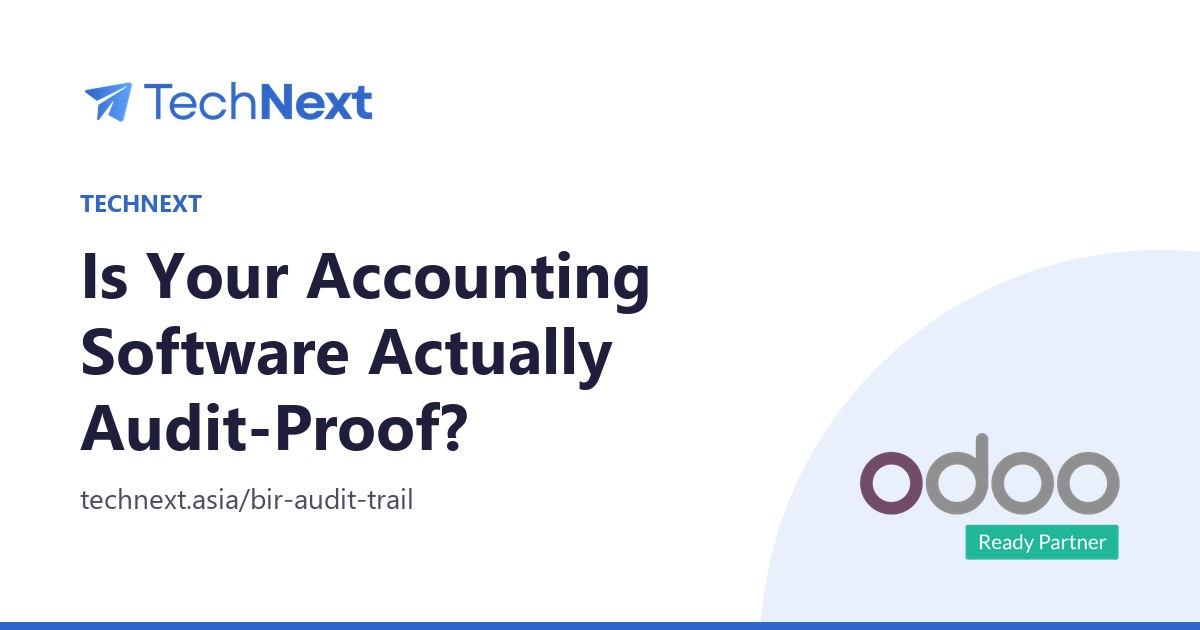
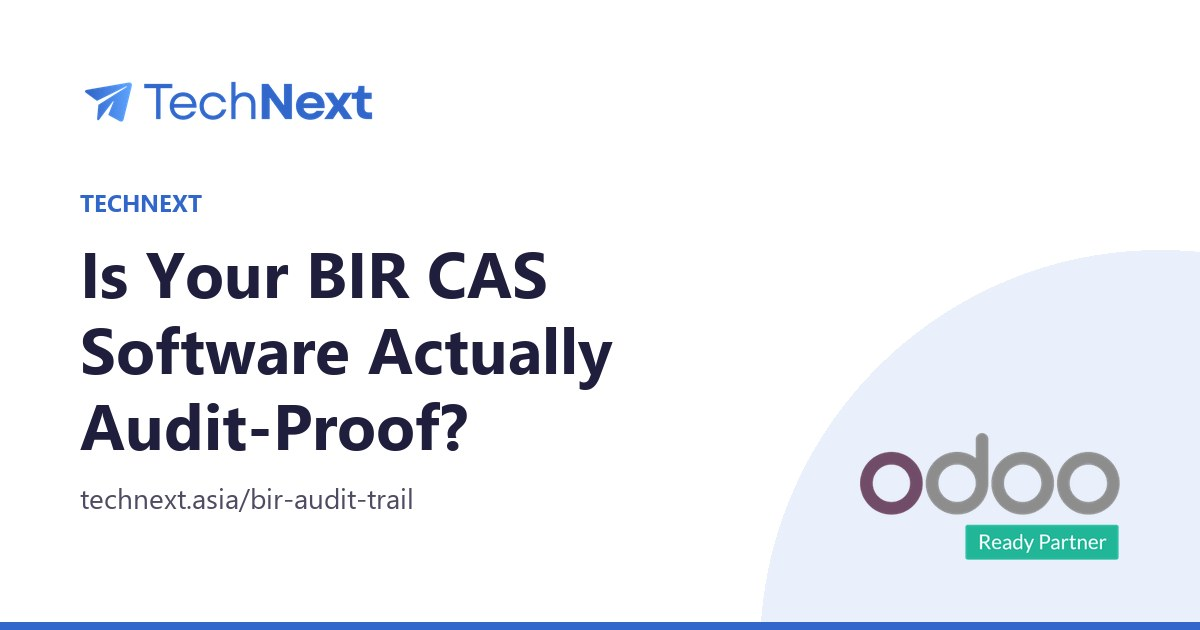
Landing pages: headlines name and highlight BIR CAS, adviser voice (solve, not fix)
Owner 23 Nov 2026: update all landing pages to the new site and the branding/voice rules. /bir-audit-trail 'Is Your BIR CAS Software Actually Audit-Proof?' (title too), /bir-cas-for-accountants 'Reclaim Your BIR CAS Quarter End', /bir-quarter-end highlights 'BIR Compliance' (existing highlight kept), 'Fix my quarter end' -> 'Solve my quarter end', 'without fixes by hand' -> 'without manual corrections'.

Changed region(s): [[0.2467, 0.3921, 0.555, 0.5127]]

diff --git a/bir-audit-trail.html b/bir-audit-trail.html
@@ -9,7 +9,7 @@ gtag('consent','default',{'ad_storage':'denied','ad_user_data':'denied','ad_pers
 try{if(document.cookie.indexOf('tn_consent=yes')>-1){gtag('consent','update',{'ad_storage':'granted','ad_user_data':'granted','ad_personalization':'granted','analytics_storage':'granted'});}}catch(e){}
 </script>
 <script>window.dataLayer=window.dataLayer||[];function gtag(){dataLayer.push(arguments);}var tnC={};try{var q=location.search;if(/[?&]internal=1(&|$)/.test(q))localStorage.setItem('tn_internal','1');if(/[?&]internal=0(&|$)/.test(q))localStorage.removeItem('tn_internal');if(localStorage.getItem('tn_internal')==='1')tnC.traffic_type='internal'}catch(e){}gtag('js',new Date());gtag('config','G-E7P849N9JY',tnC);gtag('config','AW-18068724830');!function(w){if(w.fbq)return;var n=w.fbq=function(){n.callMethod?n.callMethod.apply(n,arguments):n.queue.push(arguments)};w._fbq=n;n.push=n;n.loaded=!0;n.version='2.0';n.queue=[]}(window);if(!tnC.traffic_type){fbq('consent',document.cookie.indexOf('tn_consent=yes')>-1?'grant':'revoke');fbq('init','1959782781295555');fbq('track','PageView')}(function(){var done=!/(^|\.)technext\.asia$/.test(location.hostname),S=["https://www.googletagmanager.com/gtm.js?id=GTM-PB9CDFGG", "https://www.googletagmanager.com/gtm.js?id=GTM-5BZBR57D", "https://www.googletagmanager.com/gtag/js?id=G-E7P849N9JY"];if(!tnC.traffic_type)S.push('https://connect.facebook.net/en_US/fbevents.js');function go(){if(done)return;done=true;dataLayer.push({'gtm.start':new Date().getTime(),event:'gtm.js'});var add=function(){S.forEach(function(u){var j=document.createElement('script');j.async=true;j.src=u;document.head.appendChild(j)})};if(window.requestIdleCallback)requestIdleCallback(add,{timeout:1500});else setTimeout(add,1);['pointerdown','keydown','scroll','touchstart'].forEach(function(e){removeEventListener(e,go,true)})}['pointerdown','keydown','scroll','touchstart'].forEach(function(e){addEventListener(e,go,{capture:true,passive:true})});addEventListener('load',function(){setTimeout(go,2500)})})();</script>
-<title>Is Your Accounting Software Actually Audit-Proof? · TechNext</title>
+<title>Is Your BIR CAS Software Actually Audit-Proof? · TechNext</title>
 <meta name="description" content="Your 2026 computerised books go to ORUS by 30 January 2027. Locked posted entries and an audit trail of every change. Book a technical call.">
 <meta name="robots" content="noindex, nofollow">
 <link rel="canonical" href="https://technext.asia/bir-audit-trail">
@@ -18,16 +18,16 @@ try{if(document.cookie.indexOf('tn_consent=yes')>-1){gtag('consent','update',{'a
 <meta name="tdm-policy" content="https://technext.asia/terms#content-use">
 <meta property="og:type" content="website">
 <meta property="og:site_name" content="TechNext">
-<meta property="og:title" content="Is Your Accounting Software Actually Audit-Proof? · TechNext">
+<meta property="og:title" content="Is Your BIR CAS Software Actually Audit-Proof? · TechNext">
 <meta property="og:description" content="Your 2026 computerised books go to ORUS by 30 January 2027. Locked posted entries and an audit trail of every change. Book a technical call.">
 <meta property="og:url" content="https://technext.asia/bir-audit-trail">
-<meta property="og:image" content="https://technext.asia/assets/img/og/bir-audit-trail.jpg?v=da0b33cc">
+<meta property="og:image" content="https://technext.asia/assets/img/og/bir-audit-trail.jpg?v=67b5ead3">
 <meta property="og:image:width" content="1200">
 <meta property="og:image:height" content="630">
-<meta property="og:image:alt" content="Is Your Accounting Software Actually Audit-Proof? · TechNext">
+<meta property="og:image:alt" content="Is Your BIR CAS Software Actually Audit-Proof? · TechNext">
 <meta name="twitter:card" content="summary_large_image">
-<meta name="twitter:image" content="https://technext.asia/assets/img/og/bir-audit-trail.jpg?v=da0b33cc">
-<meta name="twitter:image:alt" content="Is Your Accounting Software Actually Audit-Proof? · TechNext">
+<meta name="twitter:image" content="https://technext.asia/assets/img/og/bir-audit-trail.jpg?v=67b5ead3">
+<meta name="twitter:image:alt" content="Is Your BIR CAS Software Actually Audit-Proof? · TechNext">
 <meta name="theme-color" content="#3167CA">
 <link rel="icon" href="favicon.ico" sizes="16x16 32x32 48x48">
 <link rel="icon" type="image/png" sizes="48x48" href="assets/img/favicon-48.png">
@@ -44,7 +44,7 @@ try{if(document.cookie.indexOf('tn_consent=yes')>-1){gtag('consent','update',{'a
 
 <link rel="stylesheet" href="assets/css/buttons.css?v=60fe7328">
 <link rel="stylesheet" href="assets/css/icon-motion.css?v=60fe7328">
-<script type="application/ld+json">{"@context": "https://schema.org", "@graph": [{"@type": ["Organization", "ProfessionalService"], "@id": "https://technext.asia/#organization", "name": "TechNext", "legalName": "TechNext Pte. Ltd.", "alternateName": ["TechNext Asia", "TechNext Pte Ltd"], "url": "https://technext.asia/", "logo": {"@type": "ImageObject", "@id": "https://technext.asia/#logo", "url": "https://technext.asia/assets/img/logo-square.png", "contentUrl": "https://technext.asia/assets/img/logo-square.png", "width": 1024, "height": 1024, "caption": "TechNext"}, "image": ["https://technext.asia/assets/img/logo-square.png", "https://technext.asia/assets/img/og-image.png", "https://technext.asia/assets/img/logo-horizontal.png"], "email": "sales@technext.asia", "address": {"@type": "PostalAddress", "streetAddress": "261 Waterloo Street #03-36", "addressLocality": "Singapore", "postalCode": "180261", "addressCountry": "SG"}, "identifier": {"@type": "PropertyValue", "propertyID": "UEN", "value": "202699888G"}, "hasMap": "https://maps.google.com/?cid=3474088819422984887", "geo": {"@type": "GeoCoordinates", "latitude": 1.2989163, "longitude": 103.8519697}, "contactPoint": [{"@type": "ContactPoint", "contactType": "sales", "email": "sales@technext.asia", "areaServed": ["SG", "PH", "VN"], "availableLanguage": ["English"]}], "department": [{"@type": "ProfessionalService", "@id": "https://technext.asia/#office-ph", "name": "TechNext Philippines", "description": "Our Philippine team. BIR set-up work happens here.", "address": {"@type": "PostalAddress", "streetAddress": "Level 9, IP Center (Intellectual Property Center)", "addressLocality": "Taguig City", "addressCountry": "PH", "addressRegion": "Metro Manila", "postalCode": "1634"}, "hasMap": "https://maps.google.com/?cid=12500824038992408388", "parentOrganization": {"@id": "https://technext.asia/#organization"}, "geo": {"@type": "GeoCoordinates", "latitude": 14.5350092, "longitude": 121.0509849}}, {"@type": "ProfessionalService", "@id": "https://technext.asia/#office-vn", "name": "TechNext Vietnam", "description": "Our Ho Chi Minh City office.", "address": {"@type": "PostalAddress", "streetAddress": "62 Nguyễn Thị Nhung, Phường Hiệp Bình", "addressLocality": "Ho Chi Minh City", "addressCountry": "VN"}, "hasMap": "https://www.google.com/maps/search/?api=1&query=62+Nguyen+Thi+Nhung+Hiep+Binh+Ho+Chi+Minh+City", "parentOrganization": {"@id": "https://technext.asia/#organization"}, "geo": {"@type": "GeoCoordinates", "latitude": 10.8440075, "longitude": 106.7121703}}], "areaServed": ["Singapore", "Philippines", "Vietnam", "Southeast Asia", "Worldwide"], "sameAs": ["https://www.linkedin.com/company/technextasia", "https://www.youtube.com/@technextasia", "https://x.com/technextasia", "https://www.instagram.com/technextasia/", "https://www.facebook.com/technextasia", "https://www.tiktok.com/@technextasia"], "description": "TechNext is a BIR compliance and integration partner for accounting firms and finance teams, headquartered in Singapore, with its main team in Taguig City, Metro Manila. We connect a compliance reporting plug-in to the system a business already runs (accounting software, POS, spreadsheets or in-house systems), so it does not have to replace it, and set it up for accounting and BIR requirements first: the books for the business's own Computerized Accounting System (CAS) or CBA application, 2307, SLSP, SAWT, QAP, 2550Q and e-invoicing planning. In Singapore: GST and InvoiceNow. Clients start with Accounting and get a written quote before any work starts.", "disambiguatingDescription": "TechNext Pte. Ltd. (technext.asia, UEN 202699888G): the BIR CAS set-up partner headquartered in Singapore with its main team in Taguig City, for SMEs: a compliance reporting plug-in connected to the system a business already runs.", "slogan": "Keep your system. Add a plug-in for BIR CAS.", "hasOfferCatalog": {"@type": "OfferCatalog", "name": "Services", "itemListElement": [{"@type": "Offer", "itemOffered": {"@type": "Service", "name": "5 Day Express BIR CAS and CBA set-up", "provider": {"@id": "https://technext.asia/#organization"}, "url": "https://technext.asia/bir-cas"}}, {"@type": "Offer", "itemOffered": {"@type": "Service", "name": "BIR e-invoicing preparation", "provider": {"@id": "https://technext.asia/#organization"}, "url": "https://technext.asia/bir-e-invoicing"}}, {"@type": "Offer", "itemOffered": {"@type": "Service", "name": "Plug-in for your existing system", "provider": {"@id": "https://technext.asia/#organization"}}}, {"@type": "Offer", "itemOffered": {"@type": "Service", "name": "Full business system set-up", "provider": {"@id": "https://technext.asia/#organization"}}}, {"@type": "Offer", "itemOffered": {"@type": "Service", "name": "BIR CAS set-up in the Philippines", "provider": {"@id": "https://technext.asia/#organization"}}}, {"@type": "Offer", "itemOffered": {"@type": "Service", "name": "Discovery", "provider": {"@id": "https://technext.asia/#organization"}}}, {"@type": "Offer", "itemOffered": {"@type": "Service", "name": "Training", "provider": {"@id": "https://technext.asia/#organization"}}}, {"@type": "Offer", "itemOffered": {"@type": "Service", "name": "Support", "provider": {"@id": "https://technext.asia/#organization"}}}]}, "employee": [{"@type": "Person", "name": "Neil Matan", "jobTitle": "Senior Functional Lead"}, {"@type": "Person", "name": "Jeric Bulayungan", "jobTitle": "Business Development"}], "knowsAbout": ["Business consultation", "Withholding tax (BIR Form 2307)", "Singapore GST InvoiceNow", "BIR Computerized Accounting System (CAS) and CBA registration", "BIR e-invoicing (RR 26-2025)", "EOPT invoice requirements (RR 7-2024)", "BIR Form 2550Q quarterly VAT", "BIR SLSP (Summary List of Sales and Purchases)", "BIR SAWT and QAP alphalists", "Expanded withholding tax (ATC codes)", "BIR audit records (eLA)", "Philippine payroll BIR forms (1601-C, 2316, 1604-C)", "BIR books of accounts (manual, loose-leaf, computerized)", "BIR Form 2551Q percentage tax", "BIR tax calendar and filing deadlines", "Accounting software for BIR requirements (Philippines)", "ORUS books of accounts registration", "BIR books of accounts year-end deadlines (15 and 30 January)", "BIR SAWT and Form 2307 creditable withholding", "InvoiceNow (Peppol) e-invoicing in Singapore", "BIR CAS set-up for accounting teams", "Accounting system integration with existing software", "Accounting system set-up in Singapore"], "keywords": "BIR compliance, BIR CAS, CBA, BIR CAS set-up, 5 Day Express, BIR e-invoicing, EIS, EOPT, BIR Form 2307, 2550Q, SLSP, SAWT, QAP, Singapore GST, InvoiceNow, ORUS books of accounts, 30 January 2027 deadline, IRAS InvoiceNow, accounting system for BIR, BIR Compliance Expert Philippines"}, {"@type": "WebSite", "@id": "https://technext.asia/#website", "url": "https://technext.asia/", "name": "TechNext", "alternateName": ["TechNext Asia", "technext.asia"], "publisher": {"@id": "https://technext.asia/#organization"}, "inLanguage": "en"}, {"@type": "WebPage", "@id": "https://technext.asia/bir-audit-trail#webpage", "url": "https://technext.asia/bir-audit-trail", "name": "Is Your Accounting Software Actually Audit-Proof?", "description": "Your 2026 computerised books go to ORUS by 30 January 2027. Locked posted entries and an audit trail of every change. Book a technical call.", "isPartOf": {"@id": "https://technext.asia/#website"}, "dateModified": "2026-11-13", "inLanguage": "en"}, {"@type": "FAQPage", "@id": "https://technext.asia/bir-audit-trail#faq", "isPartOf": {"@id": "https://technext.asia/bir-audit-trail#webpage"}, "mainEntity": [{"@type": "Question", "name": "Do we need a CAS or a CBA?", "acceptedAnswer": {"@type": "Answer", "text": "RMO 9-2021 draws the line at invoices. If your system issues them, it is a CAS; if invoices are issued by hand and the system keeps your books, it is a CBA. Large taxpayers must use a CAS. We go through it with your accountant, and your RDO can confirm it."}}, {"@type": "Question", "name": "Is TechNext BIR-accredited?", "acceptedAnswer": {"@type": "Answer", "text": "No, and no accounting software is. The BIR registers each business's use of a system, not a software brand, and it has warned against \"BIR-accredited\" claims. We set your system up for the BIR's requirements and prepare the sample outputs with you."}}, {"@type": "Question", "name": "When are computerised books due in ORUS?", "acceptedAnswer": {"@type": "Answer", "text": "Within 30 days after the close of each taxable year (RMC 3-2023), online through ORUS (RMC 4-2026). For calendar-year taxpayers, computerised books for 2026 are due by 30 January 2027, unless the BIR announces otherwise. Your accountant or RDO confirms the dates for your business."}}, {"@type": "Question", "name": "Do we, or our clients, have to change our core accounting software?", "acceptedAnswer": {"@type": "Answer", "text": "No. Your current software stays exactly as it is. We connect to it by API, daily batch sync or flat-file upload, and the BIR books and reports are built from that data. No rip-and-replace, no double entry."}}, {"@type": "Question", "name": "How long does the set up take?", "acceptedAnswer": {"@type": "Answer", "text": "For ledgers with clean, reconciled data, a standard technical deployment takes 5 days.* Bigger scopes, more branches or messy data run longer, and your written quote says so before you agree to anything. Your RDO sets its own timeline for any registration."}}, {"@type": "Question", "name": "What does it cost?", "acceptedAnswer": {"@type": "Answer", "text": "You don't need a million-peso system overhaul to meet BIR requirements. Pricing scales based on your branch network and integration complexity, and you get a written quote before any work starts. The meeting has no charge."}}]}]}</script>
+<script type="application/ld+json">{"@context": "https://schema.org", "@graph": [{"@type": ["Organization", "ProfessionalService"], "@id": "https://technext.asia/#organization", "name": "TechNext", "legalName": "TechNext Pte. Ltd.", "alternateName": ["TechNext Asia", "TechNext Pte Ltd"], "url": "https://technext.asia/", "logo": {"@type": "ImageObject", "@id": "https://technext.asia/#logo", "url": "https://technext.asia/assets/img/logo-square.png", "contentUrl": "https://technext.asia/assets/img/logo-square.png", "width": 1024, "height": 1024, "caption": "TechNext"}, "image": ["https://technext.asia/assets/img/logo-square.png", "https://technext.asia/assets/img/og-image.png", "https://technext.asia/assets/img/logo-horizontal.png"], "email": "sales@technext.asia", "address": {"@type": "PostalAddress", "streetAddress": "261 Waterloo Street #03-36", "addressLocality": "Singapore", "postalCode": "180261", "addressCountry": "SG"}, "identifier": {"@type": "PropertyValue", "propertyID": "UEN", "value": "202699888G"}, "hasMap": "https://maps.google.com/?cid=3474088819422984887", "geo": {"@type": "GeoCoordinates", "latitude": 1.2989163, "longitude": 103.8519697}, "contactPoint": [{"@type": "ContactPoint", "contactType": "sales", "email": "sales@technext.asia", "areaServed": ["SG", "PH", "VN"], "availableLanguage": ["English"]}], "department": [{"@type": "ProfessionalService", "@id": "https://technext.asia/#office-ph", "name": "TechNext Philippines", "description": "Our Philippine team. BIR set-up work happens here.", "address": {"@type": "PostalAddress", "streetAddress": "Level 9, IP Center (Intellectual Property Center)", "addressLocality": "Taguig City", "addressCountry": "PH", "addressRegion": "Metro Manila", "postalCode": "1634"}, "hasMap": "https://maps.google.com/?cid=12500824038992408388", "parentOrganization": {"@id": "https://technext.asia/#organization"}, "geo": {"@type": "GeoCoordinates", "latitude": 14.5350092, "longitude": 121.0509849}}, {"@type": "ProfessionalService", "@id": "https://technext.asia/#office-vn", "name": "TechNext Vietnam", "description": "Our Ho Chi Minh City office.", "address": {"@type": "PostalAddress", "streetAddress": "62 Nguyễn Thị Nhung, Phường Hiệp Bình", "addressLocality": "Ho Chi Minh City", "addressCountry": "VN"}, "hasMap": "https://www.google.com/maps/search/?api=1&query=62+Nguyen+Thi+Nhung+Hiep+Binh+Ho+Chi+Minh+City", "parentOrganization": {"@id": "https://technext.asia/#organization"}, "geo": {"@type": "GeoCoordinates", "latitude": 10.8440075, "longitude": 106.7121703}}], "areaServed": ["Singapore", "Philippines", "Vietnam", "Southeast Asia", "Worldwide"], "sameAs": ["https://www.linkedin.com/company/technextasia", "https://www.youtube.com/@technextasia", "https://x.com/technextasia", "https://www.instagram.com/technextasia/", "https://www.facebook.com/technextasia", "https://www.tiktok.com/@technextasia"], "description": "TechNext is a BIR compliance and integration partner for accounting firms and finance teams, headquartered in Singapore, with its main team in Taguig City, Metro Manila. We connect a compliance reporting plug-in to the system a business already runs (accounting software, POS, spreadsheets or in-house systems), so it does not have to replace it, and set it up for accounting and BIR requirements first: the books for the business's own Computerized Accounting System (CAS) or CBA application, 2307, SLSP, SAWT, QAP, 2550Q and e-invoicing planning. In Singapore: GST and InvoiceNow. Clients start with Accounting and get a written quote before any work starts.", "disambiguatingDescription": "TechNext Pte. Ltd. (technext.asia, UEN 202699888G): the BIR CAS set-up partner headquartered in Singapore with its main team in Taguig City, for SMEs: a compliance reporting plug-in connected to the system a business already runs.", "slogan": "Keep your system. Add a plug-in for BIR CAS.", "hasOfferCatalog": {"@type": "OfferCatalog", "name": "Services", "itemListElement": [{"@type": "Offer", "itemOffered": {"@type": "Service", "name": "5 Day Express BIR CAS and CBA set-up", "provider": {"@id": "https://technext.asia/#organization"}, "url": "https://technext.asia/bir-cas"}}, {"@type": "Offer", "itemOffered": {"@type": "Service", "name": "BIR e-invoicing preparation", "provider": {"@id": "https://technext.asia/#organization"}, "url": "https://technext.asia/bir-e-invoicing"}}, {"@type": "Offer", "itemOffered": {"@type": "Service", "name": "Plug-in for your existing system", "provider": {"@id": "https://technext.asia/#organization"}}}, {"@type": "Offer", "itemOffered": {"@type": "Service", "name": "Full business system set-up", "provider": {"@id": "https://technext.asia/#organization"}}}, {"@type": "Offer", "itemOffered": {"@type": "Service", "name": "BIR CAS set-up in the Philippines", "provider": {"@id": "https://technext.asia/#organization"}}}, {"@type": "Offer", "itemOffered": {"@type": "Service", "name": "Discovery", "provider": {"@id": "https://technext.asia/#organization"}}}, {"@type": "Offer", "itemOffered": {"@type": "Service", "name": "Training", "provider": {"@id": "https://technext.asia/#organization"}}}, {"@type": "Offer", "itemOffered": {"@type": "Service", "name": "Support", "provider": {"@id": "https://technext.asia/#organization"}}}]}, "employee": [{"@type": "Person", "name": "Neil Matan", "jobTitle": "Senior Functional Lead"}, {"@type": "Person", "name": "Jeric Bulayungan", "jobTitle": "Business Development"}], "knowsAbout": ["Business consultation", "Withholding tax (BIR Form 2307)", "Singapore GST InvoiceNow", "BIR Computerized Accounting System (CAS) and CBA registration", "BIR e-invoicing (RR 26-2025)", "EOPT invoice requirements (RR 7-2024)", "BIR Form 2550Q quarterly VAT", "BIR SLSP (Summary List of Sales and Purchases)", "BIR SAWT and QAP alphalists", "Expanded withholding tax (ATC codes)", "BIR audit records (eLA)", "Philippine payroll BIR forms (1601-C, 2316, 1604-C)", "BIR books of accounts (manual, loose-leaf, computerized)", "BIR Form 2551Q percentage tax", "BIR tax calendar and filing deadlines", "Accounting software for BIR requirements (Philippines)", "ORUS books of accounts registration", "BIR books of accounts year-end deadlines (15 and 30 January)", "BIR SAWT and Form 2307 creditable withholding", "InvoiceNow (Peppol) e-invoicing in Singapore", "BIR CAS set-up for accounting teams", "Accounting system integration with existing software", "Accounting system set-up in Singapore"], "keywords": "BIR compliance, BIR CAS, CBA, BIR CAS set-up, 5 Day Express, BIR e-invoicing, EIS, EOPT, BIR Form 2307, 2550Q, SLSP, SAWT, QAP, Singapore GST, InvoiceNow, ORUS books of accounts, 30 January 2027 deadline, IRAS InvoiceNow, accounting system for BIR, BIR Compliance Expert Philippines"}, {"@type": "WebSite", "@id": "https://technext.asia/#website", "url": "https://technext.asia/", "name": "TechNext", "alternateName": ["TechNext Asia", "technext.asia"], "publisher": {"@id": "https://technext.asia/#organization"}, "inLanguage": "en"}, {"@type": "WebPage", "@id": "https://technext.asia/bir-audit-trail#webpage", "url": "https://technext.asia/bir-audit-trail", "name": "Is Your BIR CAS Software Actually Audit-Proof?", "description": "Your 2026 computerised books go to ORUS by 30 January 2027. Locked posted entries and an audit trail of every change. Book a technical call.", "isPartOf": {"@id": "https://technext.asia/#website"}, "dateModified": "2026-11-13", "inLanguage": "en"}, {"@type": "FAQPage", "@id": "https://technext.asia/bir-audit-trail#faq", "isPartOf": {"@id": "https://technext.asia/bir-audit-trail#webpage"}, "mainEntity": [{"@type": "Question", "name": "Do we need a CAS or a CBA?", "acceptedAnswer": {"@type": "Answer", "text": "RMO 9-2021 draws the line at invoices. If your system issues them, it is a CAS; if invoices are issued by hand and the system keeps your books, it is a CBA. Large taxpayers must use a CAS. We go through it with your accountant, and your RDO can confirm it."}}, {"@type": "Question", "name": "Is TechNext BIR-accredited?", "acceptedAnswer": {"@type": "Answer", "text": "No, and no accounting software is. The BIR registers each business's use of a system, not a software brand, and it has warned against \"BIR-accredited\" claims. We set your system up for the BIR's requirements and prepare the sample outputs with you."}}, {"@type": "Question", "name": "When are computerised books due in ORUS?", "acceptedAnswer": {"@type": "Answer", "text": "Within 30 days after the close of each taxable year (RMC 3-2023), online through ORUS (RMC 4-2026). For calendar-year taxpayers, computerised books for 2026 are due by 30 January 2027, unless the BIR announces otherwise. Your accountant or RDO confirms the dates for your business."}}, {"@type": "Question", "name": "Do we, or our clients, have to change our core accounting software?", "acceptedAnswer": {"@type": "Answer", "text": "No. Your current software stays exactly as it is. We connect to it by API, daily batch sync or flat-file upload, and the BIR books and reports are built from that data. No rip-and-replace, no double entry."}}, {"@type": "Question", "name": "How long does the set up take?", "acceptedAnswer": {"@type": "Answer", "text": "For ledgers with clean, reconciled data, a standard technical deployment takes 5 days.* Bigger scopes, more branches or messy data run longer, and your written quote says so before you agree to anything. Your RDO sets its own timeline for any registration."}}, {"@type": "Question", "name": "What does it cost?", "acceptedAnswer": {"@type": "Answer", "text": "You don't need a million-peso system overhaul to meet BIR requirements. Pricing scales based on your branch network and integration complexity, and you get a written quote before any work starts. The meeting has no charge."}}]}]}</script>
 <script>document.querySelectorAll('link[data-defer]').forEach(function(l){function on(){l.media='all'}if(l.sheet)on();else l.addEventListener('load',on)})</script>
 <noscript><link href="https://fonts.googleapis.com/css2?family=Plus+Jakarta+Sans:wght@500;600;700;800&family=Inter:wght@400;500;600&family=Caveat:wght@500;600;700&display=swap" rel="stylesheet"></noscript>
 </head>
@@ -99,7 +99,7 @@ try{if(document.cookie.indexOf('tn_consent=yes')>-1){gtag('consent','update',{'a
   <div class="container fw-hero-in">
     <div class="fw-copy">
       <p class="fw-deadline lp-dl"><svg class="ic" viewBox="0 0 24 24" fill="none" stroke="currentColor" stroke-width="2" stroke-linecap="round" stroke-linejoin="round" aria-hidden="true"><path d="M3 6a2 2 0 0 1 2-2h14a2 2 0 0 1 2 2v4H3z" fill="currentColor" fill-opacity=".2" stroke="none"/><rect x="3" y="4" width="18" height="18" rx="2"/><path d="M16 2v4M8 2v4M3 10h18"/></svg><span><b>Deadline</b> · 2026 books in ORUS by 30 January 2027</span></p>
-      <h1 id="fw-h1">Is Your Accounting Software <span class="hl">Actually Audit-Proof?</span></h1>
+      <h1 id="fw-h1">Is Your <span class="hl">BIR CAS</span> Software <span class="hl">Actually Audit-Proof?</span></h1>
       <p class="lead fw-hero-lead">Your 2026 computerised books go to ORUS by 30 January 2027. Under RMC 5-2021, a CAS must keep an audit trail and protect posted entries from changes. Our <b>5 Day Express BIR Solution*</b> sets up locked entries and a full audit trail for clean, reconciled ledgers. Meet a BIR Compliance Expert online for 15 to 20 minutes and leave with your plan.</p>
       <ul class="lp-ticks"><li><svg class="ic" viewBox="0 0 24 24" fill="none" stroke="currentColor" stroke-width="2" stroke-linecap="round" stroke-linejoin="round" aria-hidden="true"><path d="M20 6 9 17l-5-5"/></svg><span><b>Posted entries locked.</b> Lock dates, and no edits after posting.</span></li><li><svg class="ic" viewBox="0 0 24 24" fill="none" stroke="currentColor" stroke-width="2" stroke-linecap="round" stroke-linejoin="round" aria-hidden="true"><path d="M20 6 9 17l-5-5"/></svg><span><b>Every change logged.</b> Who did what, and when.</span></li><li><svg class="ic" viewBox="0 0 24 24" fill="none" stroke="currentColor" stroke-width="2" stroke-linecap="round" stroke-linejoin="round" aria-hidden="true"><path d="M20 6 9 17l-5-5"/></svg><span><b>SLSP tied to the ledger.</b> Reports from the same posted entries.</span></li></ul>
       <p class="small muted fw-proof"><strong>BIR forms we set up:</strong> books of accounts, 2307, SLSP, SAWT, QAP · <strong>142 projects delivered</strong></p>
@@ -143,7 +143,7 @@ try{if(document.cookie.indexOf('tn_consent=yes')>-1){gtag('consent','update',{'a
   <div class="container">
     <div class="sec-head reveal"><h2 id="fw-check-h">Would your system pass an audit trail check?</h2><p class="lead">Lock your books before year end. Which of these sounds familiar?</p></div>
     <div class="fw-check lp-check reveal">
-      <ul class="fw-check-list lp-points"><li><div class="lp-point"><span class="lp-point-mark" aria-hidden="true"></span><span><b>The system can't print an audit trail</b> showing who changed what, and when.</span></div></li><li><div class="lp-point"><span class="lp-point-mark" aria-hidden="true"></span><span><b>Posted entries get edited</b> after the period is closed.</span></div></li><li><div class="lp-point"><span class="lp-point-mark" aria-hidden="true"></span><span><b>The SLSP doesn't tie to the general ledger</b> without fixes by hand.</span></div></li><li><div class="lp-point"><span class="lp-point-mark" aria-hidden="true"></span><span><b>Nobody has checked the Annex B requirements</b> against your set up.</span></div></li></ul>
+      <ul class="fw-check-list lp-points"><li><div class="lp-point"><span class="lp-point-mark" aria-hidden="true"></span><span><b>The system can't print an audit trail</b> showing who changed what, and when.</span></div></li><li><div class="lp-point"><span class="lp-point-mark" aria-hidden="true"></span><span><b>Posted entries get edited</b> after the period is closed.</span></div></li><li><div class="lp-point"><span class="lp-point-mark" aria-hidden="true"></span><span><b>The SLSP doesn't tie to the general ledger</b> without manual corrections.</span></div></li><li><div class="lp-point"><span class="lp-point-mark" aria-hidden="true"></span><span><b>Nobody has checked the Annex B requirements</b> against your set up.</span></div></li></ul>
       <p class="lp-check-act"><a class="btn btn-primary btn-lg" href="#book" data-to-form>Check my audit trail <svg class="ic" viewBox="0 0 24 24" fill="none" stroke="currentColor" stroke-width="2" stroke-linecap="round" stroke-linejoin="round" aria-hidden="true"><path d="M5 12h14"/><path d="m12 5 7 7-7 7"/></svg></a></p>
     </div>
   </div>

diff --git a/bir-quarter-end.html b/bir-quarter-end.html
@@ -99,7 +99,7 @@ try{if(document.cookie.indexOf('tn_consent=yes')>-1){gtag('consent','update',{'a
   <div class="container fw-hero-in">
     <div class="fw-copy">
       <p class="fw-deadline lp-dl"><svg class="ic" viewBox="0 0 24 24" fill="none" stroke="currentColor" stroke-width="2" stroke-linecap="round" stroke-linejoin="round" aria-hidden="true"><path d="M3 6a2 2 0 0 1 2-2h14a2 2 0 0 1 2 2v4H3z" fill="currentColor" fill-opacity=".2" stroke="none"/><rect x="3" y="4" width="18" height="18" rx="2"/><path d="M16 2v4M8 2v4M3 10h18"/></svg><span><b>Deadline</b> · 2026 books in ORUS by 30 January 2027</span></p>
-      <h1 id="fw-h1">Automate BIR Compliance. <span class="hl">Keep Your Current System.</span></h1>
+      <h1 id="fw-h1">Automate <span class="hl">BIR Compliance</span>. <span class="hl">Keep Your Current System.</span></h1>
       <p class="lead fw-hero-lead">Stop rebuilding your clients' SLSP, SAWT, QAP and 2307s in spreadsheets every quarter. Your clients' 2026 CAS books are due through ORUS by 30 January 2027: set up automated BIR reporting beside the software they already use, before the holidays. Our <b>5 Day Express BIR Solution*</b> sets it up for clean, reconciled ledgers.</p>
       <ul class="lp-ticks"><li><svg class="ic" viewBox="0 0 24 24" fill="none" stroke="currentColor" stroke-width="2" stroke-linecap="round" stroke-linejoin="round" aria-hidden="true"><path d="M20 6 9 17l-5-5"/></svg><span><b>Data in once.</b> From their POS or current system, no double entry.</span></li><li><svg class="ic" viewBox="0 0 24 24" fill="none" stroke="currentColor" stroke-width="2" stroke-linecap="round" stroke-linejoin="round" aria-hidden="true"><path d="M20 6 9 17l-5-5"/></svg><span><b>Mapped to ATC codes.</b> Every transaction to the right tax code.</span></li><li><svg class="ic" viewBox="0 0 24 24" fill="none" stroke="currentColor" stroke-width="2" stroke-linecap="round" stroke-linejoin="round" aria-hidden="true"><path d="M20 6 9 17l-5-5"/></svg><span><b>Reconciled to the ledger.</b> CAS journals, DAT files and 2307s from the same entries.</span></li></ul>
       <p class="small muted fw-proof"><strong>BIR forms we set up:</strong> books of accounts, 2307, SLSP, SAWT, QAP · <strong>142 projects delivered</strong></p>
@@ -144,7 +144,7 @@ try{if(document.cookie.indexOf('tn_consent=yes')>-1){gtag('consent','update',{'a
     <div class="sec-head reveal"><h2 id="fw-check-h">Let's be honest: your quarter end is a mess of manual data entry.</h2><p class="lead">Every hour spent re-typing is an hour not billed, and a mistake waiting to be filed.</p></div>
     <div class="fw-check lp-check reveal">
       <ul class="fw-check-list lp-points"><li><div class="lp-point"><span class="lp-point-mark" aria-hidden="true"></span><span><b>Typing 2307 certificates by hand</b> for every supplier, and chasing lost copies.</span></div></li><li><div class="lp-point"><span class="lp-point-mark" aria-hidden="true"></span><span><b>Rebuilding SLSP, SAWT and QAP</b> by hand the week they are due.</span></div></li><li><div class="lp-point"><span class="lp-point-mark" aria-hidden="true"></span><span><b>Reconciling stock, sales and books</b> that live in different systems.</span></div></li><li><div class="lp-point"><span class="lp-point-mark" aria-hidden="true"></span><span><b>Consolidating branch invoices</b> that use different layouts and series.</span></div></li></ul>
-      <p class="lp-check-act"><a class="btn btn-primary btn-lg" href="#book" data-to-form>Fix my quarter end <svg class="ic" viewBox="0 0 24 24" fill="none" stroke="currentColor" stroke-width="2" stroke-linecap="round" stroke-linejoin="round" aria-hidden="true"><path d="M5 12h14"/><path d="m12 5 7 7-7 7"/></svg></a></p>
+      <p class="lp-check-act"><a class="btn btn-primary btn-lg" href="#book" data-to-form>Solve my quarter end <svg class="ic" viewBox="0 0 24 24" fill="none" stroke="currentColor" stroke-width="2" stroke-linecap="round" stroke-linejoin="round" aria-hidden="true"><path d="M5 12h14"/><path d="m12 5 7 7-7 7"/></svg></a></p>
     </div>
   </div>
 </section>

diff --git a/bir-cas-for-accountants.html b/bir-cas-for-accountants.html
@@ -99,7 +99,7 @@ try{if(document.cookie.indexOf('tn_consent=yes')>-1){gtag('consent','update',{'a
   <div class="container fw-hero-in">
     <div class="fw-copy">
       <p class="fw-deadline lp-dl"><svg class="ic" viewBox="0 0 24 24" fill="none" stroke="currentColor" stroke-width="2" stroke-linecap="round" stroke-linejoin="round" aria-hidden="true"><path d="M3 6a2 2 0 0 1 2-2h14a2 2 0 0 1 2 2v4H3z" fill="currentColor" fill-opacity=".2" stroke="none"/><rect x="3" y="4" width="18" height="18" rx="2"/><path d="M16 2v4M8 2v4M3 10h18"/></svg><span><b>Deadlines</b> · E-invoicing 31 Dec 2026 · ORUS books 30 Jan 2027</span></p>
-      <h1 id="fw-h1">Reclaim Your Quarter End. Stop Rebuilding <span class="hl">SLSP</span> in Spreadsheets.</h1>
+      <h1 id="fw-h1">Reclaim Your <span class="hl">BIR CAS</span> Quarter End. Stop Rebuilding <span class="hl">SLSP</span> in Spreadsheets.</h1>
       <p class="lead fw-hero-lead">The plug-in built to give accountants and bookkeepers their weekends back. Every BIR report comes straight from the entries you already post. You reconcile once, and the system handles the rest.</p>
       <ul class="lp-ticks"><li><svg class="ic" viewBox="0 0 24 24" fill="none" stroke="currentColor" stroke-width="2" stroke-linecap="round" stroke-linejoin="round" aria-hidden="true"><path d="M20 6 9 17l-5-5"/></svg><span><b>Never type a 2307 again.</b> Generated from your vendor bills.</span></li><li><svg class="ic" viewBox="0 0 24 24" fill="none" stroke="currentColor" stroke-width="2" stroke-linecap="round" stroke-linejoin="round" aria-hidden="true"><path d="M20 6 9 17l-5-5"/></svg><span><b>No double entry.</b> DAT files come straight from the ledger.</span></li><li><svg class="ic" viewBox="0 0 24 24" fill="none" stroke="currentColor" stroke-width="2" stroke-linecap="round" stroke-linejoin="round" aria-hidden="true"><path d="M20 6 9 17l-5-5"/></svg><span><b>Built for accountants.</b> Reviewed by you, set up by us.</span></li></ul>
       <p class="small muted fw-proof"><strong>BIR forms we set up:</strong> books of accounts, 2307, SLSP, SAWT, QAP · <strong>142 projects delivered</strong></p>
@@ -144,7 +144,7 @@ try{if(document.cookie.indexOf('tn_consent=yes')>-1){gtag('consent','update',{'a
     <div class="sec-head reveal"><h2 id="fw-check-h">Let's be honest: your quarter end is a mess of manual data entry.</h2><p class="lead">Every hour spent re-typing is an hour not billed, and a mistake waiting to be filed.</p></div>
     <div class="fw-check lp-check reveal">
       <ul class="fw-check-list lp-points"><li><div class="lp-point"><span class="lp-point-mark" aria-hidden="true"></span><span><b>Typing 2307 certificates by hand</b> for every supplier, and chasing lost copies.</span></div></li><li><div class="lp-point"><span class="lp-point-mark" aria-hidden="true"></span><span><b>Rebuilding SLSP, SAWT and QAP</b> by hand the week they are due.</span></div></li><li><div class="lp-point"><span class="lp-point-mark" aria-hidden="true"></span><span><b>Reconciling stock, sales and books</b> that live in different systems.</span></div></li><li><div class="lp-point"><span class="lp-point-mark" aria-hidden="true"></span><span><b>Consolidating branch invoices</b> that use different layouts and series.</span></div></li></ul>
-      <p class="lp-check-act"><a class="btn btn-primary btn-lg" href="#book" data-to-form>Fix my quarter end <svg class="ic" viewBox="0 0 24 24" fill="none" stroke="currentColor" stroke-width="2" stroke-linecap="round" stroke-linejoin="round" aria-hidden="true"><path d="M5 12h14"/><path d="m12 5 7 7-7 7"/></svg></a></p>
+      <p class="lp-check-act"><a class="btn btn-primary btn-lg" href="#book" data-to-form>Solve my quarter end <svg class="ic" viewBox="0 0 24 24" fill="none" stroke="currentColor" stroke-width="2" stroke-linecap="round" stroke-linejoin="round" aria-hidden="true"><path d="M5 12h14"/><path d="m12 5 7 7-7 7"/></svg></a></p>
     </div>
   </div>
 </section>

diff --git a/_src/pages/bir-audit-trail.html b/_src/pages/bir-audit-trail.html
@@ -1,3 +1,3 @@
-<!--meta {"title": "Is Your Accounting Software Actually Audit-Proof?", "desc": "Your 2026 computerised books go to ORUS by 30 January 2027. Locked posted entries and an audit trail of every change. Book a technical call.", "out": "bir-audit-trail.html", "robots": "noindex, nofollow", "nav": "", "scripts": ["assets/js/pages/get-started-fx.js", "assets/js/pages/industry-fx.js", "assets/js/pages/fw-needs.js"], "body": "fx-page gs-page gs-fx fw-fx fw-fast lp-page", "head": "<link rel=\"stylesheet\" href=\"{ROOT}assets/css/home-fx.css?v={ASSET_V}\"><link rel=\"stylesheet\" href=\"{ROOT}assets/css/pages/get-started-fx.css?v={ASSET_V}\"><link rel=\"stylesheet\" href=\"{ROOT}assets/css/pages/industry-fx.css?v={ASSET_V}\"><link rel=\"stylesheet\" href=\"{ROOT}assets/css/pages/adviser-call-fx.css?v={ASSET_V}\"><link rel=\"stylesheet\" href=\"{ROOT}assets/css/experts.css?v={ASSET_V}\">"} -->
+<!--meta {"title": "Is Your BIR CAS Software Actually Audit-Proof?", "desc": "Your 2026 computerised books go to ORUS by 30 January 2027. Locked posted entries and an audit trail of every change. Book a technical call.", "out": "bir-audit-trail.html", "robots": "noindex, nofollow", "nav": "", "scripts": ["assets/js/pages/get-started-fx.js", "assets/js/pages/industry-fx.js", "assets/js/pages/fw-needs.js"], "body": "fx-page gs-page gs-fx fw-fx fw-fast lp-page", "head": "<link rel=\"stylesheet\" href=\"{ROOT}assets/css/home-fx.css?v={ASSET_V}\"><link rel=\"stylesheet\" href=\"{ROOT}assets/css/pages/get-started-fx.css?v={ASSET_V}\"><link rel=\"stylesheet\" href=\"{ROOT}assets/css/pages/industry-fx.css?v={ASSET_V}\"><link rel=\"stylesheet\" href=\"{ROOT}assets/css/pages/adviser-call-fx.css?v={ASSET_V}\"><link rel=\"stylesheet\" href=\"{ROOT}assets/css/experts.css?v={ASSET_V}\">"} -->
 <!-- bir-audit-trail: landing page for a Facebook ad (13 Nov 2026). Content comes from _src/landers.py PAGES["bir-audit-trail"]; edit there. -->
 {{LANDER:bir-audit-trail}}

diff --git a/_src/landers.py b/_src/landers.py
@@ -370,7 +370,7 @@ PAGES["bir-adviser-call"].update(_copy.deepcopy(_FIRM))
 
 PAGES["bir-cas-for-accountants"].update(
     pill=DL_BOTH, goal="quarter", btn=BTN_DOC,
-    h1='Reclaim Your Quarter End. Stop Rebuilding <span class="hl">SLSP</span> in Spreadsheets.',
+    h1='Reclaim Your <span class="hl">BIR CAS</span> Quarter End. Stop Rebuilding <span class="hl">SLSP</span> in Spreadsheets.',
     sub="The plug-in built to give accountants and bookkeepers their weekends back. Every BIR report comes straight from the "
         "entries you already post. You reconcile once, and the system handles the rest.",
     ticks=["<b>Never type a 2307 again.</b> Generated from your vendor bills.",
@@ -455,7 +455,7 @@ PAGES["bir-quarter-end"] = dict(_copy.deepcopy(PAGES["bir-cas-for-accountants"])
 PAGES["bir-quarter-end"].update(
     source="BIR adviser call (FB ad 265 quarter end)",
     pill=DL_CAS, goal="quarter",
-    h1='Automate BIR Compliance. <span class="hl">Keep Your Current System.</span>',
+    h1='Automate <span class="hl">BIR Compliance</span>. <span class="hl">Keep Your Current System.</span>',
     sub="Stop rebuilding your clients' SLSP, SAWT, QAP and 2307s in spreadsheets every quarter. Your clients' 2026 CAS books "
         "are due through ORUS by 30 January 2027: set up automated BIR reporting beside the software they already use, "
         "before the holidays. Our <b>5 Day Express BIR Solution*</b> sets it up for clean, reconciled ledgers.",
@@ -508,7 +508,7 @@ PAGES["bir-audit-trail"] = dict(_copy.deepcopy(PAGES["bir-adviser-call"]))
 PAGES["bir-audit-trail"].update(
     source="BIR adviser call (FB ad 267 audit trail)",
     pill=DL_CAS, goal="cas",
-    h1='Is Your Accounting Software <span class="hl">Actually Audit-Proof?</span>',
+    h1='Is Your <span class="hl">BIR CAS</span> Software <span class="hl">Actually Audit-Proof?</span>',
     sub="Your 2026 computerised books go to ORUS by 30 January 2027. Under RMC 5-2021, a CAS must keep an audit trail and "
         "protect posted entries from changes. Our <b>5 Day Express BIR Solution*</b> sets up locked entries and a full audit trail for clean, reconciled "
         "ledgers. Meet a BIR Compliance Expert online for 15 to 20 minutes and leave with your plan.",
@@ -521,7 +521,7 @@ PAGES["bir-audit-trail"].update(
     check_lead="Lock your books before year end. Which of these sounds familiar?",
     checks=[("No audit trail printout", "<b>The system can't print an audit trail</b> showing who changed what, and when."),
             ("Posted entries get edited", "<b>Posted entries get edited</b> after the period is closed."),
-            ("SLSP doesn't tie to the ledger", "<b>The SLSP doesn't tie to the general ledger</b> without fixes by hand."),
+            ("SLSP doesn't tie to the ledger", "<b>The SLSP doesn't tie to the general ledger</b> without manual corrections."),
             ("Annex B never checked", "<b>Nobody has checked the Annex B requirements</b> against your set up.")],
     bp_h="What you leave the meeting with.",
     bp_lead="One online meeting with a BIR Compliance Expert, before your books are due.",
@@ -557,7 +557,7 @@ CTAS = {
     "bir-adviser-call": dict(_CAS_FIRM, close="Book my Blueprint meeting"),
     "bir-call": dict(check="Check my books for ORUS", blueprint="Get my BIR CAS Blueprint", express="Plan my set up",
                      faq=_ASK, close="Book before 30 January"),
-    "bir-cas-for-accountants": dict(check="Fix my quarter end", blueprint="See my quarter end set up", express="Plan my set up",
+    "bir-cas-for-accountants": dict(check="Solve my quarter end", blueprint="See my quarter end set up", express="Plan my set up",
                                     faq=_ASK, close="Book my Blueprint meeting"),
     "bir-e-invoicing-plan": dict(check="Check my e-invoicing gaps", blueprint="Get my e-invoicing Blueprint",
                                  express="Book the first meeting", faq=_ASK, close="Book before 31 December"),
@@ -567,7 +567,7 @@ CTAS = {
 }
 
 CTAS.update({
-    "bir-quarter-end": dict(check="Fix my quarter end", blueprint="Book my workflow review", express="Book my workflow review",
+    "bir-quarter-end": dict(check="Solve my quarter end", blueprint="Book my workflow review", express="Book my workflow review",
                             faq=_ASK, close="Book before 30 January"),
     "bir-firm-deadlines": dict(myths="Check what my client needs", facts="Check if my client is covered",
                                blueprint="Book my partner meeting", firm="Bring a client case", faq=_ASK,
